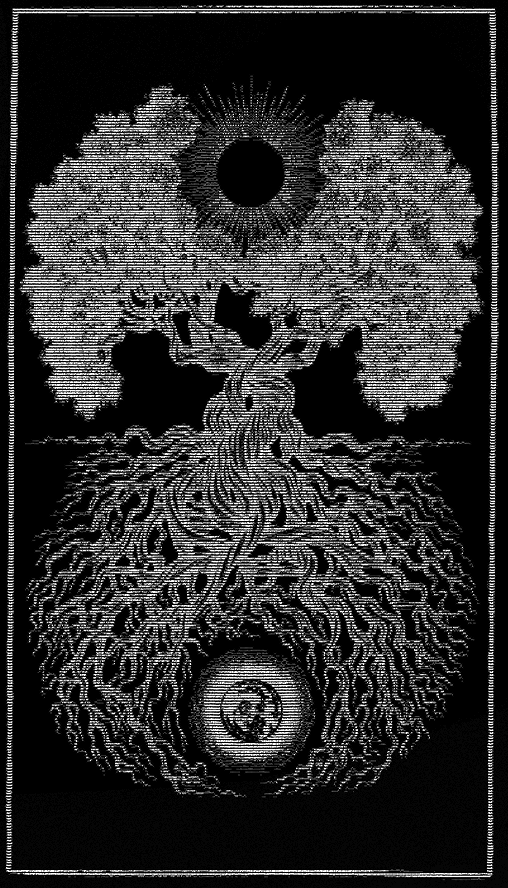
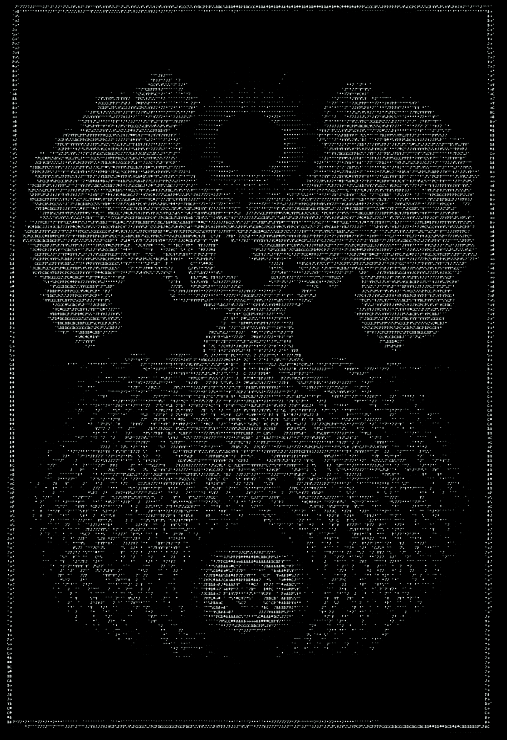
feat: implemented 1: reversed cards being drawn, with the chance to receive a reversed card being .35%, as wash shuffling often yields ~20%-40% reversed card draw. 2: users now must click the cards that were dealt to them in order to reveal the tarot reading. 3: adjusted shuffle animation png.

diff --git a/tarot-terminal/src/App.tsx b/tarot-terminal/src/App.tsx
@@ -5,11 +5,51 @@ import DeckShuffle from "./DeckShuffle";
 import { EntropyCollectorRitual, mulberry32 } from "./userEntropy";
 import { drawCard, parseCard } from "./deck";
 
+function FlipCard({
+  back,
+  face,
+  reversed,
+  disabled,
+  onRevealed,
+}: {
+  back: string;
+  face: string;
+  reversed: boolean;
+  disabled?: boolean;
+  onRevealed?: () => void;
+}) {
+  const [flipped, setFlipped] = useState(false);
+
+  const flip = () => {
+    if (disabled) return;
+    if (flipped) return;
+    setFlipped(true);
+    onRevealed?.();
+  };
+
+  return (
+    <div
+      className={`flipCard ${flipped ? "isFlipped" : ""} ${disabled ? "disabled" : ""}`}
+      onClick={flip}
+      role="button"
+      aria-disabled={disabled}
+      tabIndex={0}
+    >
+      <div className="flipInner">
+        <pre className="ascii flipSide flipBack">{back}</pre>
+        <pre className={`ascii flipSide flipFront ${reversed ? "rev" : ""}`}>{face}</pre>
+      </div>
+    </div>
+  );
+}
+
+
 function TarotCard({text}: {text: string}) {
   return <pre className="ascii">{text}</pre>;
 }
+const REQUIRED_KEYS = ["a", "s", "d", "f", " ", "j", "k", "l", ";"];
+const RITUAL_KEYS = new Set<string>(REQUIRED_KEYS);
 
-const RITUAL_KEYS = new Set(["a", "s", "d", "f", " ", "j", "k", "l", ";"])
 const MIRROT_TITLE = String.raw`                                                
      *****   **    **                                                   
   ******  ***** *****    *                                        *     
@@ -38,6 +78,8 @@ const MIRROT_TITLE = String.raw`
   path: string;
   text: string;
   name: string;
+  reversed: boolean;
+  revealed: boolean;
  };
  
 export default function App() {
@@ -49,29 +91,49 @@ export default function App() {
   const [done, setDone] = useState(false);
   const [ritualMs, setRitualMs] = useState<number | null>(null);
   const [drawn, setDrawn] = useState<DrawnCard[]>([]);
+  const [cardBack, setCardBack] = useState<string>("LOADING BACK...");
+  const [cardTransition, setCardTransition] = useState<string | undefined>(undefined);
+
+  // NEW: reveal rules
+  const [revealedCount, setRevealedCount] = useState(0);
+  const [flipLock, setFlipLock] = useState(false); // allow only one flip at a time
+
+   useEffect(() => {
+    // adjust paths to wherever you store your ASCII assets (public folder is easiest)
+    fetch("/Tarot-Ascii/cardBack.txt").then(r => r.text()).then(setCardBack).catch(() => {
+      setCardBack("/Tarot-Ascii/cardBack.txt");
+    });
+
+    fetch("/Tarot-Ascii/cardTransition.txt")
+      .then(r => r.text())
+      .then(setCardTransition)
+      .catch(() => {
+        // transition optional
+        setCardTransition(undefined);
+      });
+  }, []);
 
   useEffect(() => {
     const updateFromCollector = () => {
-      
       const s = collector.getState();
-
-      setHeldCount(s.heldCount);
-      setRequiredCount(s.requiredCount);
-      setRitualStarted(s.ritualStarted);
-      setDone(s.done);
-      setRitualMs(s.ritualMs);
-      
-      
-      if (s.ritualStarted && phase === "ritual") {
-         setPhase("shuffling"); 
-      }
-      
+      if (s.ritualStarted && phase === "ritual") setPhase("shuffling");
       return s;
     };
 
     const onDown = (e: KeyboardEvent) => {
-      if (RITUAL_KEYS.has(e.key)) {
-        e.preventDefault();
+      // don’t hijack typing in inputs/textareas
+      const el = e.target as HTMLElement | null;
+      const typing =
+        el &&
+        (el.tagName === "INPUT" ||
+          el.tagName === "TEXTAREA" ||
+          el.isContentEditable);
+
+      if (!typing) {
+        // stop Space scrolling + stop browser shortcuts while ritual keys are held
+        if (e.code === "Space" || RITUAL_KEYS.has(e.key)) {
+          e.preventDefault();
+        }
       }
 
       collector.onKeyDown(e);
@@ -87,34 +149,42 @@ export default function App() {
         const rand = mulberry32(seed);
         const paths = drawCard(3, rand);
         const labels: Label[] = ["Past", "Present", "Future"];
-        
+
         Promise.all(
           paths.map(async (p, i) => {
             const meta = parseCard(p as any);
             const text = await fetch(p).then(r => r.text());
-            return { label: labels[i], path: p, text, name: meta.name };
+
+            const reversed = rand() < 0.35;
+            const displayName = (meta.suit === "MajorArcana") ? meta.name : `${meta.name} of ${meta.suit}`;
+
+            return { label: labels[i], path: p, text, name: displayName, reversed, revealed: false, };
           })
         ).then(cards => {
           setDrawn(cards);
+          setRevealedCount(0);
+          setFlipLock(false);
           setPhase("cardsDown");
         });
       }
     };
 
-    window.addEventListener("keydown", onDown, { passive: false});
-    window.addEventListener("keyup", onUp, { passive: false});
-    
+    window.addEventListener("keydown", onDown, { passive: false });
+    window.addEventListener("keyup", onUp, { passive: false });
+
     return () => {
       window.removeEventListener("keydown", onDown);
       window.removeEventListener("keyup", onUp);
     };
   }, [collector, phase, drawn.length]);
-      
+
+  const canFlipMore = revealedCount < 3; // “max 3 flips” rule (here it’s literally 3 cards)
+
   return (
     <>
-     <AsciiBackground enabled={true} fps={12} frameCount={60} />
+      <AsciiBackground enabled={true} fps={12} frameCount={60} />
 
-    <div className="layer">
+      <div className="layer">
       
       <div className="header">
         <pre className="title-ascii">{MIRROT_TITLE}</pre>
@@ -153,19 +223,43 @@ export default function App() {
         </div>
 
         <div className={`fade ${phase === "cardsDown" ? "fade-in" : "fade-out"}`}>
-          <div style={{ display: "flex", gap: 32, marginTop: 24 }}>
-              {drawn.map(c => (
-                <div key={c.path} style={{ textAlign: "center" }}>
-                  <div style={{ opacity: 0.8, letterSpacing: "0.1em" }}>{c.label}</div>
-                  <pre className="ascii">{c.text}</pre>
-                  <div style={{ marginTop: 8, fontWeight: 600 }}>{c.name}</div>
-                </div>
-              ))}
+            <div style={{ display: "flex", gap: 32, marginTop: 24 }}>
+              {drawn.map((c) => {
+                const disabled = flipLock || !canFlipMore;
+
+                return (
+                  <div key={c.path} style={{ textAlign: "center" }}>
+                    <div style={{ opacity: 0.8, letterSpacing: "0.1em" }}>{c.label}</div>
+
+                    <FlipCard
+                      back={cardBack}
+                      face={c.text}
+                      reversed={c.reversed}
+                      disabled={disabled}
+                      onRevealed={() => {
+                        setFlipLock(true);
+                        window.setTimeout(() => setFlipLock(false), 600);
+
+                        setRevealedCount((n) => n + 1);
+
+                        setDrawn((prev) =>
+                          prev.map((card) =>
+                            card.path === c.path ? { ...card, revealed: true } : card
+                          )
+                        );
+                      }}
+                    />
+
+                    <div style={{ marginTop: 8, fontWeight: 600 }}>
+                      {c.revealed ? `${c.name}${c.reversed ? " (reversed)" : ""}` : "\u00A0"}
+                    </div>
+                  </div>
+                );
+              })}
+            </div>
           </div>
         </div>
       </div>
-
-    </div>
     </>
   );
 }

diff --git a/tarot-terminal/src/App.css b/tarot-terminal/src/App.css
@@ -80,3 +80,50 @@ pre.stars-ascii {
   transform: scale(0.98);
   pointer-events: none;
 }
+
+.flipCard {
+  display: inline-block;
+  cursor: pointer;
+  perspective: 1400px;
+}
+
+.flipInner {
+  display: grid;
+  transform-style: preserve-3d;
+  transition: transform 600ms cubic-bezier(0.22, 1, 0.36, 1);
+  will-change: transform;
+}
+
+.flipCard.isFlipped .flipInner {
+  transform: rotateY(180deg);
+}
+
+.flipSide {
+  grid-area: 1 / 1;
+  backface-visibility: hidden;
+  transform-style: preserve-3d;
+}
+
+/* back face */
+.flipBack {
+  transform: translateZ(1px);
+}
+
+/* front face: keep the 3D setup here ALWAYS */
+.flipFront {
+  --rev-rot: 0deg; /* default: upright */
+  transform: rotateY(180deg) translateZ(1px) rotate(var(--rev-rot));
+}
+
+/* reversed just tweaks the variable, doesn't override transform */
+.flipFront.rev {
+  --rev-rot: 180deg;
+}
+
+.ascii {
+  font-family: ui-monospace, SFMono-Regular, Menlo, Monaco, Consolas, "Liberation Mono", "Courier New", monospace;
+  white-space: pre;
+  line-height: 1;
+  font-variant-ligatures: none;
+  font-size: 12px; /* must include units */
+}
